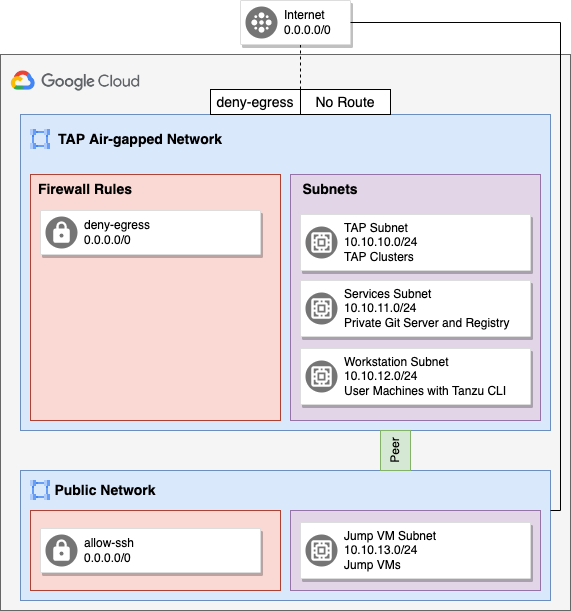
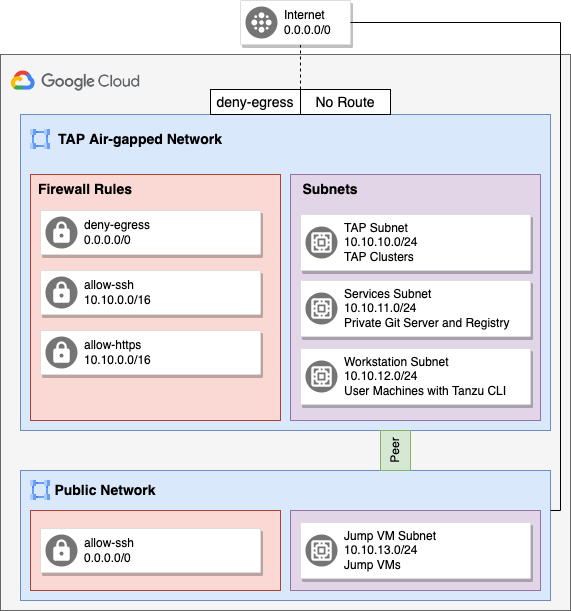
docs: Updated network settings to make it stricter in the airgapped env

Changed region(s): [[0.0595, 0.4354, 0.4764, 0.6219]]

diff --git a/README.md b/README.md
@@ -27,8 +27,10 @@ gcloud compute ssh $JP_VM_NAME --zone=$JP_VM_ZONE -- 'source 00_setup.sh && sh d
 ```
 
 ### Step 3: Block access to the internet
-```bash
+This script sets a `DENY` egress rule to `0.0.0.0/0` and remove the default route to internet that is created during creation of network.
 
+```bash
+./03_block_access_to_internet.sh
 ```
 
 ## Cleanup Infrastructure
